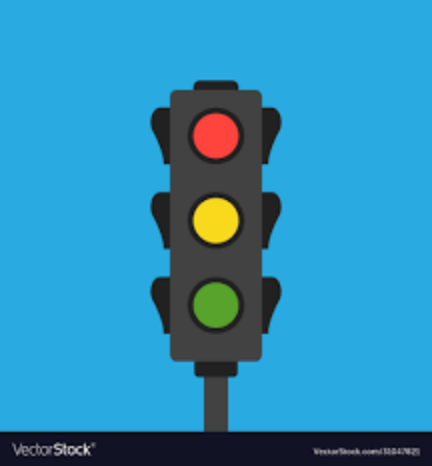
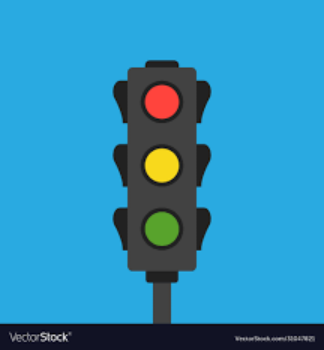
將圖片轉換成 HSV(色彩空間)

Changed region(s): [[0.0617, 0.9429, 0.216, 1.0], [0.5247, 0.8, 0.5556, 0.8286]]

diff --git a/0116.py b/0116.py
@@ -2,23 +2,19 @@ import cv2 as cv
 
 img = cv.imread("images\\traffic_light.png")
 
-img = cv.resize(img, (0,0), fx=2, fy=2)
+img = cv.resize(img, (0,0), fx=1.5, fy=1.5)
 
-canny = cv.Canny(img, 500, 550)
+hsv = cv.cvtColor(img, cv.COLOR_BGR2HSV)
 '''
-取得圖片的邊緣: 想成描邊的意思比較好理解
-(要處理的圖片，最低門檻值:過濾掉，最高門檻值:當邊緣看)
-基於像素值差異所造成的效果
-在每個像素點打分，和旁邊的像素質差越多分越高
-門檻值就是分數
-把值放越低輪廓就越明顯
+BGR 轉 HSV
+HSV: 在 HSV 色彩空間下，比BGR 更容易追蹤某種顏色的物體，常用於分割指定顏色的物體。
 '''
 
 cv.imshow('img', img)
 
-cv.imshow('canny', canny)
+cv.imshow('hsv', hsv)
 
 cv.waitKey(0)
 
 cv.imwrite('images\\img_0116_original.png',img)
-cv.imwrite('images\\img_0116_new.png',canny)
+cv.imwrite('images\\img_0116_new.png',hsv)
